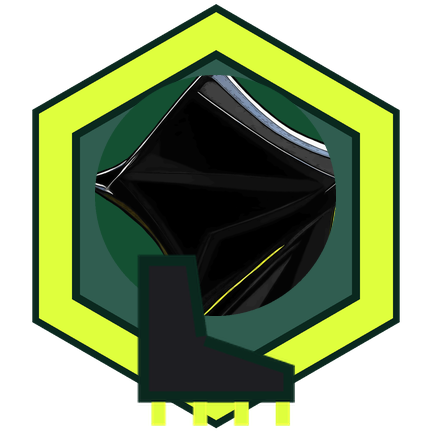
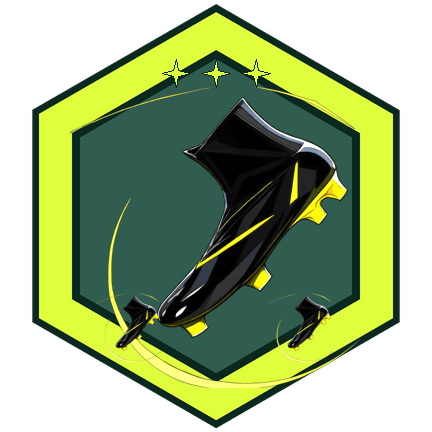
Added flair

diff --git a/index.html b/index.html
@@ -7515,8 +7515,8 @@
       <a class="proj-btn" href="images/twitch/Snake/Flair/tier3_flair_432.png?v=af519134" target="_blank" rel="noopener" title="Twitch chat flair: Snake tier3 flair">Snake tier3 flair</a>
       <a class="proj-btn" href="images/twitch/Strikeline/Flair/tier2_flair_432.png?v=ce4889cf" target="_blank" rel="noopener" title="Twitch chat flair: Strikeline tier2 flair">Strikeline tier2 flair</a>
       <a class="proj-btn" href="images/twitch/Strikeline/Flair/tier3_flair_432.png?v=eac55bc5" target="_blank" rel="noopener" title="Twitch chat flair: Strikeline tier3 flair">Strikeline tier3 flair</a>
-      <a class="proj-btn" href="images/twitch/Tessel/Flair/tier2_flair_432.png?v=c96ecf4d" target="_blank" rel="noopener" title="Twitch chat flair: Tessel tier2 flair">Tessel tier2 flair</a>
-      <a class="proj-btn" href="images/twitch/Tessel/Flair/tier3_flair_432.png?v=979a147d" target="_blank" rel="noopener" title="Twitch chat flair: Tessel tier3 flair">Tessel tier3 flair</a>
+      <a class="proj-btn" href="images/twitch/Tessel/Flair/tier2_flair_432.png?v=7e94afe9" target="_blank" rel="noopener" title="Twitch chat flair: Tessel tier2 flair">Tessel tier2 flair</a>
+      <a class="proj-btn" href="images/twitch/Tessel/Flair/tier3_flair_432.png?v=cb673b87" target="_blank" rel="noopener" title="Twitch chat flair: Tessel tier3 flair">Tessel tier3 flair</a>
       <a class="proj-btn" href="images/twitch/Flair/tier2_flair_432.png?v=618cc4fe" target="_blank" rel="noopener" title="Twitch chat flair: Tier2 flair">Tier2 flair</a>
       <a class="proj-btn" href="images/twitch/Flair/tier3_flair_432.png?v=0358e520" target="_blank" rel="noopener" title="Twitch chat flair: Tier3 flair">Tier3 flair</a>
     </div>

diff --git a/tools/make_redo.py b/tools/make_redo.py
@@ -103,8 +103,34 @@ def badge(C, name, tier_idx, prop, size=432):
 FLAIR_MODE = {"Hood": "cross", "Slash": "cross", "Helmet": "above", "Tessel": "below", "Strikeline": "below"}
 
 
+def tessel_boot(size):
+    import make_brands as mb
+    b = mb.load("Footballboot.png")
+    b = b.crop(b.split()[3].point(lambda v: 255 if v > 10 else 0).getbbox())
+    b.thumbnail((size, size))
+    out = Image.new("RGBA", (size, size), (0, 0, 0, 0))
+    out.alpha_composite(b, ((size - b.width) // 2, (size - b.height) // 2))
+    return out
+
+
+def tessel_flair(C, tier, size=432):
+    img = ms.medallion(C, size, None, C["main"] if tier == 2 else C["accent"], dots=0)
+    big = tessel_boot(int(size * (0.62 if tier == 2 else 0.7)))
+    img.alpha_composite(big, ((size - big.width) // 2, int(size * 0.2)))
+    d = ImageDraw.Draw(img)
+    if tier == 3:
+        for i in range(3):
+            mr.sparkle(d, 1, size / 2 + (i - 1) * 40, size * 0.17, 14, fill=C["accent"])
+    small = tessel_boot(int(size * 0.16))
+    for sx in (-1, 1):
+        img.alpha_composite(small, (int(size / 2 + sx * size * 0.2 - small.width / 2), int(size * 0.68)))
+    return img
+
+
 def flair(C, tier, size=432):
     name = C["_name"]
+    if name == "Tessel":
+        return tessel_flair(C, tier, size)
     mode = FLAIR_MODE.get(name, "flank")
     sig = SIG[name]
     img = Image.new("RGBA", (size, size), (0, 0, 0, 0))
